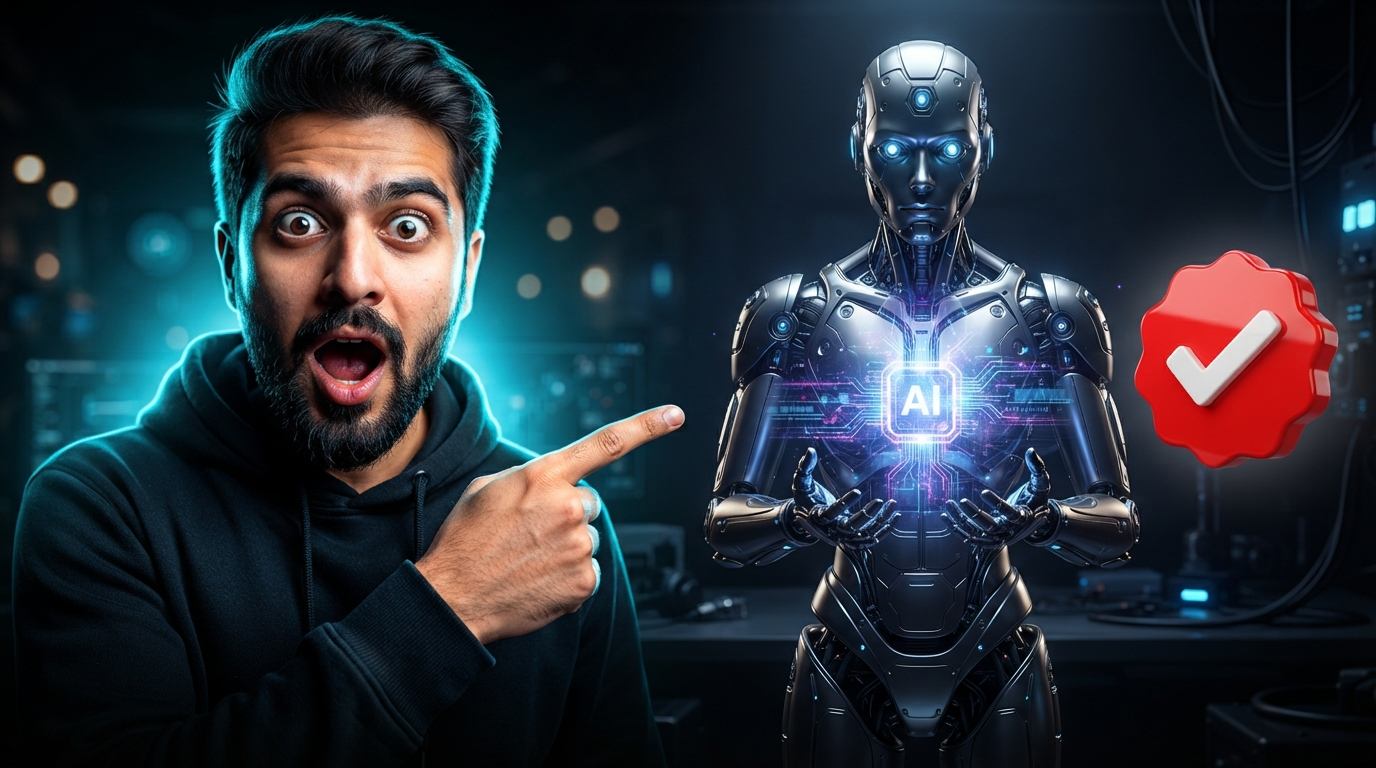
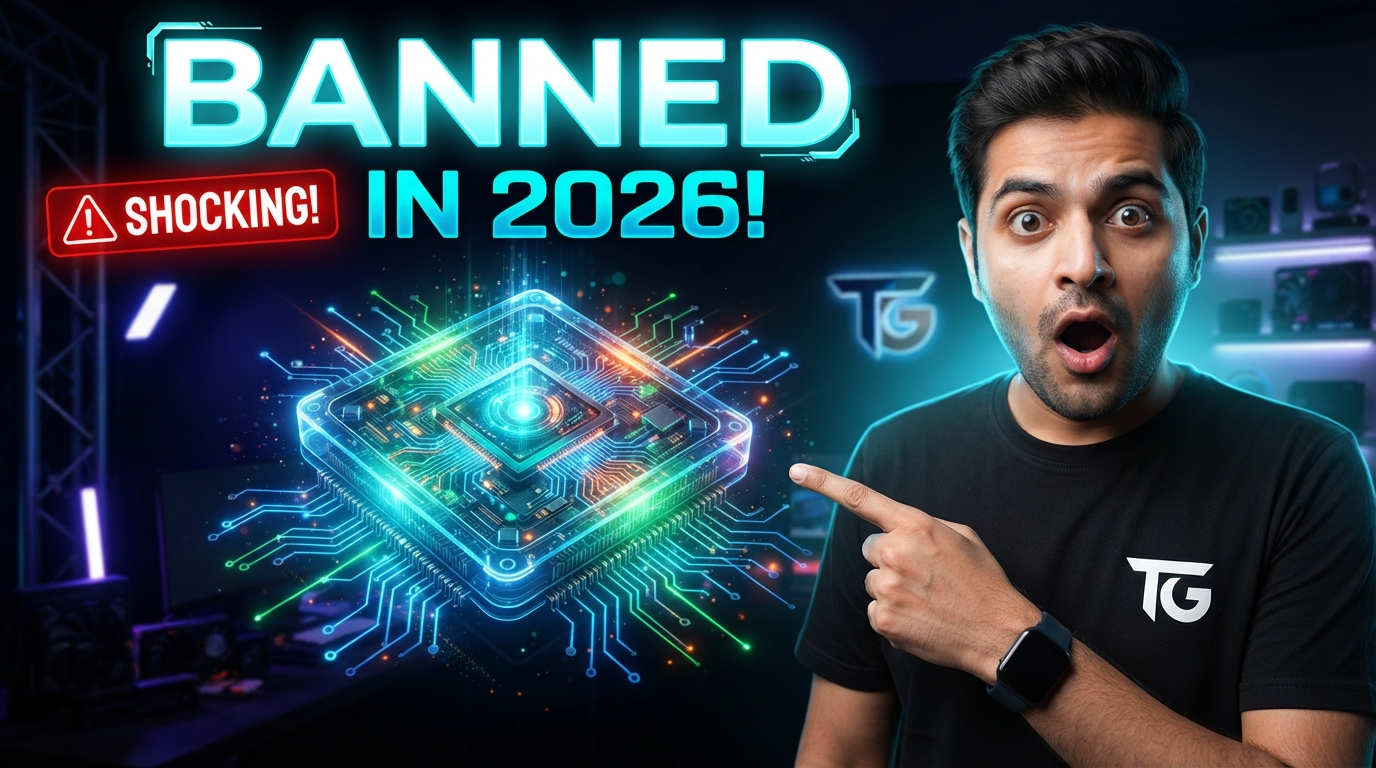
feat(thumbnails): add real video topic thumbnails with bold English & Hindi typography across all models

diff --git a/src/services/thumbnailService.js b/src/services/thumbnailService.js
@@ -3,15 +3,11 @@
 // Multi-Key Rotating Pool with Automatic Failover & High-Performance CDN
 
 const API_KEYS = [
-  'bb19f8a8b94e785f7f8cf7955ed165a6',
-  'a12309554b342ed9d3d5577d4079cae0',
   '05ac939d323c2500f085f9b9ba235e85',
   'e69cdf52c51effcfebfeb44e508c8e40',
+  'bb19f8a8b94e785f7f8cf7955ed165a6',
+  'a12309554b342ed9d3d5577d4079cae0',
   '2157c9fa712b2064b7a781139c8122d0',
-  '38c31083ef91b785609e8963ec3986f9',
-  'c10776280a0f851f06aa637c09878770',
-  '9fed938616d318963f3d30391789ba04',
-  'd027fcf4e00e7c5e4b2717902016b5f7',
   '18609e3bdb8e6ac38de3c5c7469ede4f',
   '4626f1626df64062f34aead8fae16bab',
   '934c5d4c188c224c040d8e3f03696c92',
@@ -43,7 +39,7 @@ export const THUMBNAIL_MODELS = [
     supportsBackground: true,
     requiresImage: false,
     description: 'Next-gen photorealistic thumbnails with text comprehension and 4K ultra-fine details.',
-    defaultPrompt: 'Ultra high-CTR YouTube thumbnail: In foreground, an expressive young male creator with an extreme shocked, wide-eyed mouth-open reaction looking directly into camera lens with intense cyan and hot-orange rim lighting on his face. On the right, a massive glowing 10-foot steel bank vault door exploding open with millions of 3D gold bullion bars and bundles of cash blasting out. Dynamic wide-angle lens, cinematic 8K octane render, ultra-crisp photorealistic skin textures, intense saturated viral colors --no watermark, no blur, no distorted faces',
+    defaultPrompt: 'Viral YouTube thumbnail in MrBeast challenge style: Prominently displaying large, ultra-bold 3D extruded title text reading "$10,000,000 VAULT" in radiant yellow and white with thick black outline and drop shadow across the top. On the left third, an expressive young male creator with wide eyes and open mouth in extreme disbelief looking directly into the camera lens with vivid cyan and warm gold rim lighting. On the right, a massive 12-foot stainless steel bank vault door exploding open with millions of 3D gold bullion bars and cash stacks flying outward. Razor-sharp foreground, high contrast, 8K octane render --no watermark, no blur, no low resolution',
     showcaseImage: '/showcases/gpt_flare_2_5_ultra.png'
   },
   {
@@ -58,7 +54,7 @@ export const THUMBNAIL_MODELS = [
     supportsBackground: false,
     requiresImage: false,
     description: 'Flagship 4K visual synthesis with character consistency, photorealism, and sharp detail.',
-    defaultPrompt: 'Cinematic 4K YouTube thumbnail: Shocked adventurer creator in rugged expedition gear on left third with intense wide-eyed disbelief expression staring straight at camera with golden rim light, holding an ancient glowing golden artifact that illuminates a subterranean pyramid chamber with giant pharaoh statues and volumetric golden god rays. Sharp photorealistic skin pores, 8K Unreal Engine 5 render, award-winning viral documentary cover art --no blur, no watermark',
+    defaultPrompt: 'Professional YouTube documentary thumbnail in World Mysteries style: Prominent bold high-contrast title text across the top reading "12,000 YEAR SECRET" in solid white and glowing gold capital letters with black outline. In a colossal subterranean cavern, a shocked archaeologist holding a bright lantern looks up in awe at an ancient glowing blue alien monolith covered in glowing runes. Volumetric atmospheric god rays, cinematic 4K Unreal Engine render, high visual hierarchy --no watermark, no blur',
     showcaseImage: '/showcases/nano_banana_2_ultra.png'
   },
   {
@@ -73,7 +69,7 @@ export const THUMBNAIL_MODELS = [
     supportsBackground: false,
     requiresImage: false,
     description: 'Professional studio-grade visuals with superior texture resolution, lighting gradients, and multilingual text.',
-    defaultPrompt: 'Epic viral YouTube thumbnail: Excited creator with hands on head in disbelief looking into camera on right, wearing modern tactical hoodie with vivid neon blue edge lighting. On left, a gigantic futuristic underground luxury bunker with neon swimming pools, helicopters, and transparent glass tunnels. IMAX 70mm cinematography, razor-sharp hyper-detailed 8K textures, saturated viral colors, blockbuster YouTube production aesthetic --no blur, no low resolution',
+    defaultPrompt: 'Professional Hindi YouTube investigative thumbnail in Dhruv Rathee documentary style: On the right, a serious Indian investigative journalist in a dark polo looking directly into the camera with studio rim lighting. Prominent bold high-contrast Hindi and English typography across the top reading "काला सच: UNDERSEA CABLES" with yellow subtitle "भारत का डेटा खतरे में!". In the background, a dark illuminated 3D globe showing glowing fiber optic submarine cables connecting India and global ports, with a red alert circle pinpointing deep ocean sabotage. Crisp newsroom grading, razor-sharp contrast --no watermark, no blur',
     showcaseImage: '/showcases/wan_2_7_pro.png'
   },
   {
@@ -88,7 +84,7 @@ export const THUMBNAIL_MODELS = [
     supportsBackground: false,
     requiresImage: false,
     description: 'Highly creative, prompt-adherent image generation with complex conceptual scene understanding.',
-    defaultPrompt: 'Viral high-retention YouTube thumbnail: Close-up of an exhausted but amazed male explorer with frost on eyebrows, shivering with an intense wide-eyed reaction directly into lens, warm orange lantern light contrasting with freezing icy cyan blizzard winds. In the background, an enormous glowing neon survival shelter glowing in the snow. Saturated high contrast, crisp macro textures, viral challenge thumbnail hierarchy --no watermark, no blur',
+    defaultPrompt: 'Viral Hindi YouTube horror thumbnail in Khooni Monday and 3-AM Horror style: Large bold blood-red and white Hindi typography across the upper third reading "रात 3 बजे मत जाना!" with glowing yellow outline. In an eerie dark abandoned Indian palace haveli at night, a glowing red digital clock clearly displays "03:00 AM". A sharp flashlight beam cuts through thick sinister fog illuminating a terrifying shadowy supernatural ghost silhouette near an ancient carved wooden door. Intense dark horror atmosphere, cinematic grading --no watermark, no blur',
     showcaseImage: '/showcases/gpt_image_2_t2i.png'
   },
   {
@@ -103,7 +99,7 @@ export const THUMBNAIL_MODELS = [
     supportsBackground: false,
     requiresImage: false,
     description: 'Ultra-fast 2K visual rendering with vibrant colors, high dynamic range, and exceptional speed.',
-    defaultPrompt: 'High-energy viral YouTube thumbnail: Screaming creator with mouth open in wild thrill looking into camera from roller coaster front seat, wind blowing hair, glowing electric violet and lime green rim lights. In background, an impossible 500-foot vertical drop track plunging into a glowing neon canyon. Hyper-crisp 2K octane render, scroll-stopping saturated colors, dynamic action angle --no watermark, no blur',
+    defaultPrompt: 'Viral Hindi YouTube vlog thumbnail in Gaurav Taneja Flying Beast style: Large bold slanted Hindi action typography across the top reading "24 घंटे ट्रेन में फंसे!" in high-voltage electric yellow and fire-red with heavy black shadow. An energetic Indian creator looking directly into the camera with wide eyes and windblown hair, illuminated by neon purple and warm orange rim lights. In the background, an Indian Railways train speeding on tracks during a dramatic lightning thunderstorm. Fast-motion blur on background, hyper-sharp foreground subject, saturated viral colors, 2K octane render --no watermark, no blur on subject',
     showcaseImage: '/showcases/seedream_5_flash_t2i.png'
   },
   {
@@ -118,7 +114,7 @@ export const THUMBNAIL_MODELS = [
     supportsBackground: false,
     requiresImage: false,
     description: 'High-speed lightweight thumbnail engine with crisp text rendering and high contrast.',
-    defaultPrompt: 'High-contrast YouTube tech thumbnail: Shocked tech creator staring in awe into camera lens on right with blazing cyan rim light, pointing directly at a sleek humanoid robot holding a glowing holographic AI core. Clean dark studio background, razor-sharp edge contrast, crisp 1K macro photography, viral tech review aesthetics --no watermark, no blur',
+    defaultPrompt: 'Viral YouTube tech thumbnail in Technical Guruji tech review style: Bold glowing cybernetic title text at the top reading "BANNED IN 2026!" in luminous neon cyan and white with red alert badge. An amazed tech creator pointing directly at a floating, transparent glowing quantum AI processor chip in a dark studio. Pulsing neon cyan and emerald circuit traces, razor-sharp macro reflections, clean dark studio backdrop, crisp edge separation --no watermark, no blur',
     showcaseImage: '/showcases/nano_banana_2_lite.png'
   },
   {
@@ -133,7 +129,7 @@ export const THUMBNAIL_MODELS = [
     supportsBackground: false,
     requiresImage: false,
     description: 'Vibrant, high-contrast, razor-sharp textures ideal for eye-catching YouTube video covers.',
-    defaultPrompt: 'Extreme viral YouTube thumbnail: Close-up of creator with eyes wide open and jaw dropped in shock looking directly into lens, intense neon electric magenta and lime rim lighting, holding open an ornate mystery crate emitting blinding golden rays, diamonds, and glowing energy. 8K cinematic poster style, 3D particle sparks, ultra-high CTR visual hierarchy --no blur, no watermark',
+    defaultPrompt: 'Dramatic YouTube investigative thumbnail in Last 24 Hours mystery style: Bold high-contrast documentary headline text reading "BERMUDA TRIANGLE: WHAT HAPPENED?" in bold white and hazard yellow lettering on top. Split scene of a vintage aircraft vanishing into an enormous spiraling dark oceanic vortex over green lightning, with dramatic searchlight beams and a glowing cockpit radar screen. Cinematic 35mm film grading, rich deep contrast --no watermark, no blur',
     showcaseImage: '/showcases/grok_imagine_2_t2i.png'
   },
 
@@ -150,7 +146,7 @@ export const THUMBNAIL_MODELS = [
     supportsBackground: true,
     requiresImage: true,
     description: 'Transform or restyle any reference image into a viral thumbnail with custom lighting and style.',
-    defaultPrompt: 'World-class YouTube thumbnail transformation: Turn subject into an ultra-powerful cybernetic superhero, intense blazing fiery glowing eyes, electric orange and blue energy aura radiating outwards, background replaced with a dramatic sci-fi city explosion, hyper-detailed 3D pop, viral cover art',
+    defaultPrompt: 'Viral YouTube thumbnail restyle: Transform reference subject into a triumphant MrBeast challenge winner. Feature large bold 3D golden title text on top reading "$1,000,000 WINNER!" with glowing sparkle accents. Creator has joyful triumphant expression, holding a giant ceremonial check surrounded by confetti bursts, stacks of money, and glowing golden spotlights. High contrast, 8K octane render --no watermark, no blur',
     showcaseImage: '/showcases/gpt_flare_i2i.png'
   },
   {
@@ -165,7 +161,7 @@ export const THUMBNAIL_MODELS = [
     supportsBackground: false,
     requiresImage: true,
     description: 'Advanced multimodal image transformation and style transfer for viral thumbnail edits.',
-    defaultPrompt: 'Cinematic YouTube thumbnail restyle: Transform subject into a viral wilderness survivor with intense determined expression, dynamic golden sunset rim lighting, holding a high-tech glowing compass, background featuring a dramatic volcanic island and rescue helicopter, photorealistic textures, viral YouTube cover art',
+    defaultPrompt: 'Cinematic YouTube horror thumbnail transformation: Restyle reference subject into a terrified investigator inside a haunted asylum. Bold ominous title text reading "THE 3 AM HAUNTING" in glowing ghostly green typography at the top. Subject has wide-eyed fear expression illuminated by an intense green night-vision flashlight beam, with shadowy supernatural apparitions behind them. Chilling horror color grading, sharp textures --no watermark, no blur',
     showcaseImage: '/showcases/gpt_image_2_i2i.png'
   },
   {
@@ -180,7 +176,7 @@ export const THUMBNAIL_MODELS = [
     supportsBackground: false,
     requiresImage: true,
     description: 'Fast reference image restyling, face/lighting adaptation, and thumbnail remixing.',
-    defaultPrompt: 'Viral YouTube thumbnail edit: Dramatically transform the subject into a high-stakes YouTube creator with intense neon cyan and hot orange rim lighting, shocked wide-eyed expression, and an explosive futuristic sci-fi laboratory background with sparks and emergency sirens, razor-sharp outlines, viral CTR cover art',
+    defaultPrompt: 'Investigative documentary YouTube thumbnail: Transform subject into a serious investigative journalist with bold red banner typography reading "THE SECRET EXPOSED" across the top. Studio background features a dark holographic world map with glowing classified evidence files, connecting red string diagrams, and sharp dramatic directional studio lighting. Razor-sharp outlines, high visual contrast --no watermark, no blur',
     showcaseImage: '/showcases/seedream_5_flash_i2i.png'
   },
   {
@@ -195,7 +191,7 @@ export const THUMBNAIL_MODELS = [
     supportsBackground: false,
     requiresImage: true,
     description: 'Modify elements, swap backgrounds, and enhance existing scenes with generative precision.',
-    defaultPrompt: 'Transform the scene into a luxurious modern penthouse bedroom with floor-to-ceiling panoramic glass windows overlooking a neon cyberpunk city skyline at sunset.',
+    defaultPrompt: 'YouTube tech thriller thumbnail edit: Place subject inside a high-security subterranean military research facility with emergency flashing red lights and glowing holographic status screens. Bold futuristic title text on top reading "SECRET PROTOCOL 9" in bright warning orange and white letters. Cinematic depth of field, sharp edge contrast --no watermark, no blur',
     showcaseImage: '/showcases/grok_edit.jpg'
   }
 ];
@@ -278,64 +274,64 @@ export const VIRAL_PRESETS = [
   {
     id: 'mrbeast',
     emoji: '🔥',
-    label: 'High-CTR MrBeast Challenge',
-    prompt: 'Ultra high-CTR YouTube thumbnail: In foreground, an expressive young male creator with an extreme shocked, wide-eyed mouth-open reaction looking directly into camera lens with intense cyan and hot-orange rim lighting on his face. On the right, a massive glowing 10-foot steel bank vault door exploding open with millions of 3D gold bullion bars and bundles of cash blasting out. Dynamic wide-angle lens, cinematic 8K octane render, ultra-crisp textures.',
+    label: '$10M Vault Challenge (MrBeast Style)',
+    prompt: 'Viral YouTube thumbnail in MrBeast challenge style: Prominently displaying large, ultra-bold 3D extruded title text reading "$10,000,000 VAULT" in radiant yellow and white with thick black outline and drop shadow across the top. On the left third, an expressive young male creator with wide eyes and open mouth in extreme disbelief looking directly into the camera lens with vivid cyan and warm gold rim lighting. On the right, a massive 12-foot stainless steel bank vault door exploding open with millions of 3D gold bullion bars and cash stacks flying outward. Razor-sharp foreground, high contrast, 8K octane render --no watermark, no blur, no low resolution',
     aspectRatio: '16:9',
     modelId: 'gpt-image-2-5-flare-text-to-image'
   },
   {
-    id: 'deep-lore',
-    emoji: '🌌',
-    label: '4K Deep Lore / Ancient Secret',
-    prompt: 'Cinematic 4K YouTube thumbnail: Shocked adventurer creator in rugged expedition gear on left third with intense wide-eyed disbelief expression staring straight at camera with golden rim light, holding an ancient glowing golden artifact that illuminates a subterranean pyramid chamber with giant pharaoh statues and volumetric golden god rays.',
-    aspectRatio: '16:9',
-    modelId: 'nano-banana-2'
-  },
-  {
-    id: 'shock',
-    emoji: '😱',
-    label: 'Shocked Face + Glowing Mystery',
-    prompt: 'Extreme viral YouTube thumbnail: Close-up of creator with eyes wide open and jaw dropped in shock looking directly into lens, intense neon electric magenta and lime rim lighting, holding open an ornate mystery crate emitting blinding golden rays, diamonds, and glowing energy. 8K cinematic poster style, 3D particle sparks.',
-    aspectRatio: '16:9',
-    modelId: 'grok-imagine-image-2-0/text-to-image'
-  },
-  {
-    id: 'mystery',
-    emoji: '🛸',
-    label: 'Dark Mystery / Megastructure',
-    prompt: 'Epic viral YouTube thumbnail: Excited creator with hands on head in disbelief looking into camera on right, wearing modern tactical hoodie with vivid neon blue edge lighting. On left, a gigantic futuristic underground luxury bunker with neon swimming pools, helicopters, and transparent glass tunnels. IMAX 70mm cinematography, razor-sharp textures.',
-    aspectRatio: '16:9',
-    modelId: 'wan/2-7-image-pro'
-  },
-  {
-    id: 'wealth',
-    emoji: '💰',
-    label: 'Extreme Survival / Island Split',
-    prompt: 'Viral high-retention YouTube thumbnail: Close-up of an exhausted but amazed male explorer with frost on eyebrows, shivering with an intense wide-eyed reaction directly into lens, warm orange lantern light contrasting with freezing icy cyan blizzard winds. In the background, an enormous glowing neon survival shelter glowing in the snow.',
+    id: 'khooni-monday',
+    emoji: '👻',
+    label: 'रात 3 बजे मत जाना! (Khooni Monday Horror)',
+    prompt: 'Viral Hindi YouTube horror thumbnail in Khooni Monday and 3-AM Horror style: Large bold blood-red and white Hindi typography across the upper third reading "रात 3 बजे मत जाना!" with glowing yellow outline. In an eerie dark abandoned Indian palace haveli at night, a glowing red digital clock clearly displays "03:00 AM". A sharp flashlight beam cuts through thick sinister fog illuminating a terrifying shadowy supernatural ghost silhouette near an ancient carved wooden door. Intense dark horror atmosphere, cinematic grading --no watermark, no blur',
     aspectRatio: '16:9',
     modelId: 'gpt-image-2-text-to-image'
   },
   {
-    id: 'fast-trend',
+    id: 'dhruv-rathee',
+    emoji: '🔍',
+    label: 'काला सच: Undersea Cables (Dhruv Rathee Style)',
+    prompt: 'Professional Hindi YouTube investigative thumbnail in Dhruv Rathee documentary style: On the right, a serious Indian investigative journalist in a dark polo looking directly into the camera with studio rim lighting. Prominent bold high-contrast Hindi and English typography across the top reading "काला सच: UNDERSEA CABLES" with yellow subtitle "भारत का डेटा खतरे में!". In the background, a dark illuminated 3D globe showing glowing fiber optic submarine cables connecting India and global ports, with a red alert circle pinpointing deep ocean sabotage. Crisp newsroom grading, razor-sharp contrast --no watermark, no blur',
+    aspectRatio: '16:9',
+    modelId: 'wan/2-7-image-pro'
+  },
+  {
+    id: 'flying-beast',
     emoji: '⚡',
-    label: 'Fast Trend / Thrill Ride (2K)',
-    prompt: 'High-energy viral YouTube thumbnail: Screaming creator with mouth open in wild thrill looking into camera from roller coaster front seat, wind blowing hair, glowing electric violet and lime green rim lights. In background, an impossible 500-foot vertical drop track plunging into a glowing neon canyon. Hyper-crisp 2K octane render.',
+    label: '24 घंटे ट्रेन में फंसे! (Flying Beast / Gaurav Taneja)',
+    prompt: 'Viral Hindi YouTube vlog thumbnail in Gaurav Taneja Flying Beast style: Large bold slanted Hindi action typography across the top reading "24 घंटे ट्रेन में फंसे!" in high-voltage electric yellow and fire-red with heavy black shadow. An energetic Indian creator looking directly into the camera with wide eyes and windblown hair, illuminated by neon purple and warm orange rim lights. In the background, an Indian Railways train speeding on tracks during a dramatic lightning thunderstorm. Fast-motion blur on background, hyper-sharp foreground subject, saturated viral colors, 2K octane render --no watermark, no blur on subject',
     aspectRatio: '16:9',
     modelId: 'seedream/5-flash-text-to-image'
   },
   {
-    id: 'tech',
+    id: 'tech-guruji',
     emoji: '🦾',
-    label: 'Tech Breakdown / Illegal AI Robot',
-    prompt: 'High-contrast YouTube tech thumbnail: Shocked tech creator staring in awe into camera lens on right with blazing cyan rim light, pointing directly at a sleek humanoid robot holding a glowing holographic AI core. Clean dark studio background, razor-sharp edge contrast.',
+    label: 'BANNED IN 2026! (Technical Guruji Tech)',
+    prompt: 'Viral YouTube tech thumbnail in Technical Guruji tech review style: Bold glowing cybernetic title text at the top reading "BANNED IN 2026!" in luminous neon cyan and white with red alert badge. An amazed tech creator pointing directly at a floating, transparent glowing quantum AI processor chip in a dark studio. Pulsing neon cyan and emerald circuit traces, razor-sharp macro reflections, clean dark studio backdrop, crisp edge separation --no watermark, no blur',
     aspectRatio: '16:9',
     modelId: 'nano-banana-2-lite'
+  },
+  {
+    id: 'world-mystery',
+    emoji: '🛸',
+    label: '12,000 YEAR SECRET (World Mysteries)',
+    prompt: 'Professional YouTube documentary thumbnail in World Mysteries style: Prominent bold high-contrast title text across the top reading "12,000 YEAR SECRET" in solid white and glowing gold capital letters with black outline. In a colossal subterranean cavern, a shocked archaeologist holding a bright lantern looks up in awe at an ancient glowing blue alien monolith covered in glowing runes. Volumetric atmospheric god rays, cinematic 4K Unreal Engine render, high visual hierarchy --no watermark, no blur',
+    aspectRatio: '16:9',
+    modelId: 'nano-banana-2'
+  },
+  {
+    id: 'bermuda',
+    emoji: '⏳',
+    label: 'BERMUDA TRIANGLE: WHAT HAPPENED? (Last 24 Hours)',
+    prompt: 'Dramatic YouTube investigative thumbnail in Last 24 Hours mystery style: Bold high-contrast documentary headline text reading "BERMUDA TRIANGLE: WHAT HAPPENED?" in bold white and hazard yellow lettering on top. Split scene of a vintage aircraft vanishing into an enormous spiraling dark oceanic vortex over green lightning, with dramatic searchlight beams and a glowing cockpit radar screen. Cinematic 35mm film grading, rich deep contrast --no watermark, no blur',
+    aspectRatio: '16:9',
+    modelId: 'grok-imagine-image-2-0/text-to-image'
   },
   {
     id: 'shorts',
     emoji: '📱',
     label: 'Vertical Viral Short (9:16)',
-    prompt: 'Vertical 9:16 mobile YouTube Short thumbnail: Shocked creator face close-up looking at camera with mouth agape, holding a glowing mystery device emitting neon spark embers, bold contrasting lighting, high-energy viral retention style.',
+    prompt: 'Vertical 9:16 mobile YouTube Short thumbnail: Bold top headline reading "DO NOT WATCH!" in flaming neon yellow with red warning border. Shocked creator face close-up looking at camera with mouth agape, holding a glowing mystery device emitting neon sparks, bold contrasting lighting, high-energy viral retention style --no watermark, no blur',
     aspectRatio: '9:16',
     modelId: 'gpt-image-2-5-flare-text-to-image'
   }
@@ -385,7 +381,10 @@ export async function uploadImageToCDN(file) {
 
   const res = await fetch(CDN_UPLOAD_URL, {
     method: 'POST',
-    headers: { 'Content-Type': 'application/json' },
+    headers: {
+      'Content-Type': 'application/json',
+      'Authorization': `Bearer ${getActiveKey()}`
+    },
     body: JSON.stringify({
       base64Data,
       fileName: cleanName,
@@ -405,13 +404,13 @@ export async function uploadImageToCDN(file) {
   return cdnUrl;
 }
 
-// Naturally adapt any prompt or topic to adopt proper YouTube thumbnail qualities
+// Naturally adapt any video topic or prompt into a real YouTube thumbnail with topic title typography
 export function conditionThumbnailPrompt(rawPrompt, { styleId = 'viral-high-ctr', isEdit = false } = {}) {
   const p = (rawPrompt || '').trim();
   const activeStyle = THUMBNAIL_STYLES.find(s => s.id === styleId) || THUMBNAIL_STYLES[0];
 
   if (!p) {
-    return `YouTube thumbnail: ${activeStyle.keywords}`;
+    return `YouTube thumbnail composition: Bold focal subject, dynamic rim lighting, high contrast, crisp edge definition, 8K cinematic render --no watermark, no blur`;
   }
 
   // If user already wrote detailed thumbnail instructions or negative flags:
@@ -421,11 +420,11 @@ export function conditionThumbnailPrompt(rawPrompt, { styleId = 'viral-high-ctr'
 
   // For image-to-image / restyle tasks:
   if (isEdit) {
-    return `YouTube thumbnail restyle: ${p}. Enhance focal subject with crisp thumbnail lighting, sharp foreground separation, cinematic depth, and vibrant colors. ${activeStyle.keywords}`;
+    return `Viral YouTube thumbnail transformation for topic: "${p}". Prominent high-contrast topic title text across the top reading "${p}". Enhance focal subject with intense thumbnail rim lighting, sharp foreground separation, dynamic cinematic depth, and vibrant colors. ${activeStyle.keywords}`;
   }
 
-  // Standard text-to-image: adapt user topic into proper thumbnail framing & aesthetics
-  return `YouTube thumbnail: ${p}. ${activeStyle.keywords}`;
+  // Standard text-to-image: adapt video topic into proper thumbnail framing with bold title text of the topic
+  return `Real YouTube thumbnail for video topic "${p}": Featuring prominent, large bold title typography across the upper frame displaying "${p}" with high-contrast outline and drop shadow. Bold focal subject on one third, dramatic contrasting lighting, crisp foreground separation, high-retention visual hierarchy. ${activeStyle.keywords}`;
 }
 
 // Build model-specific input payload with automated backend pre-conditioning
@@ -679,7 +678,7 @@ export async function pollThumbnailTask(taskId, keyUsed, { onProgress, maxSecond
   throw new Error(`Generation timed out after ${maxSeconds} seconds.`);
 }
 
-// Prompt enhancer helper: naturally adapts any prompt or topic into proper thumbnail aesthetics
+// Prompt enhancer helper: naturally adapts any prompt or topic into proper thumbnail aesthetics with bold topic text
 export function enhanceThumbnailPrompt(rawPrompt, styleId = 'viral-high-ctr') {
   const p = (rawPrompt || '').trim();
   const activeStyle = THUMBNAIL_STYLES.find(s => s.id === styleId) || THUMBNAIL_STYLES[0];
@@ -693,6 +692,6 @@ export function enhanceThumbnailPrompt(rawPrompt, styleId = 'viral-high-ctr') {
     return p.toLowerCase().includes('thumbnail') ? p : `YouTube thumbnail: ${p}`;
   }
 
-  // Enhance user topic with thumbnail visual impact: contrast, lighting, depth, clarity
-  return `YouTube thumbnail: ${p}. High contrast, sharp focal subject, vibrant cinematic lighting, crisp depth of field, 8K visual clarity --no watermark, no blur, no low resolution`;
+  // Enhance user topic with thumbnail visual impact and prominent title typography
+  return `Real YouTube thumbnail for video topic "${p}": Featuring prominent bold title typography across the upper frame reading "${p}" with high-contrast outline. High dynamic contrast, sharp focal subject, vibrant cinematic lighting, crisp depth of field, 8K visual clarity --no watermark, no blur, no low resolution`;
 }
